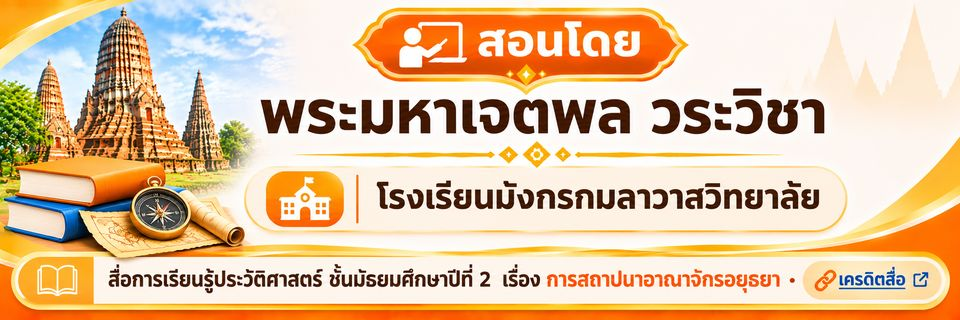
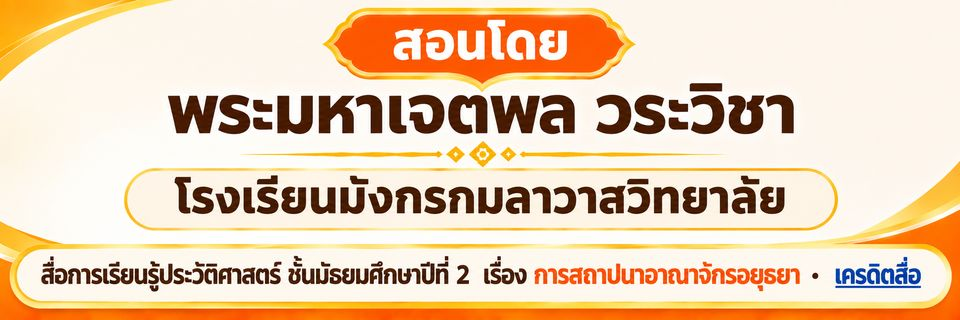
Add files via upload

diff --git a/main.js b/main.js
@@ -111,7 +111,7 @@ const BRAND_MARK = `<svg width="30" height="30" viewBox="0 0 56 56" aria-hidden=
   if (footer) {
     footer.innerHTML = `
       <div class="footer-banner">
-        <img src="banner-footer.jpg" srcset="banner-footer-sm.jpg 960w, banner-footer.jpg 1920w" sizes="(min-width: 1100px) 1100px, 100vw" width="1920" height="640" loading="lazy"
+        <img src="banner-footer.jpg" srcset="banner-footer-sm.jpg 960w, banner-footer.jpg 1920w" sizes="100vw" width="1920" height="640" loading="lazy"
           alt="สอนโดย พระมหาเจตพล วระวิชา โรงเรียนมังกรกมลาวาสวิทยาลัย · สื่อการเรียนรู้ประวัติศาสตร์ ชั้นมัธยมศึกษาปีที่ 2 เรื่อง การสถาปนาอาณาจักรอยุธยา">
         <a class="footer-credit-hit" href="media.html#credits" aria-label="เครดิตสื่อ"></a>
       </div>`;

diff --git a/style.css b/style.css
@@ -1335,3 +1335,9 @@ footer::before { display: none; }
 .footer-banner img { display: block; width: 100%; height: auto; aspect-ratio: 3 / 1; }
 .footer-credit-hit { position: absolute; left: 83.5%; top: 81%; width: 14.5%; height: 13%; border-radius: 999px; }
 .footer-credit-hit:hover, .footer-credit-hit:focus-visible { box-shadow: 0 0 0 3px var(--cinnabar); }
+
+/* ส่วนท้าย: ภาพ "สอนโดย" เต็มความกว้างหน้า */
+footer { padding: 0; margin-top: 32px; }
+.footer-banner { max-width: none; border-radius: 0; box-shadow: none; }
+.footer-credit-hit { left: 86%; top: 80%; width: 11.5%; height: 12%; }
+@media (max-width: 560px) { footer { padding-bottom: 64px; background: #f28a1e; } }
